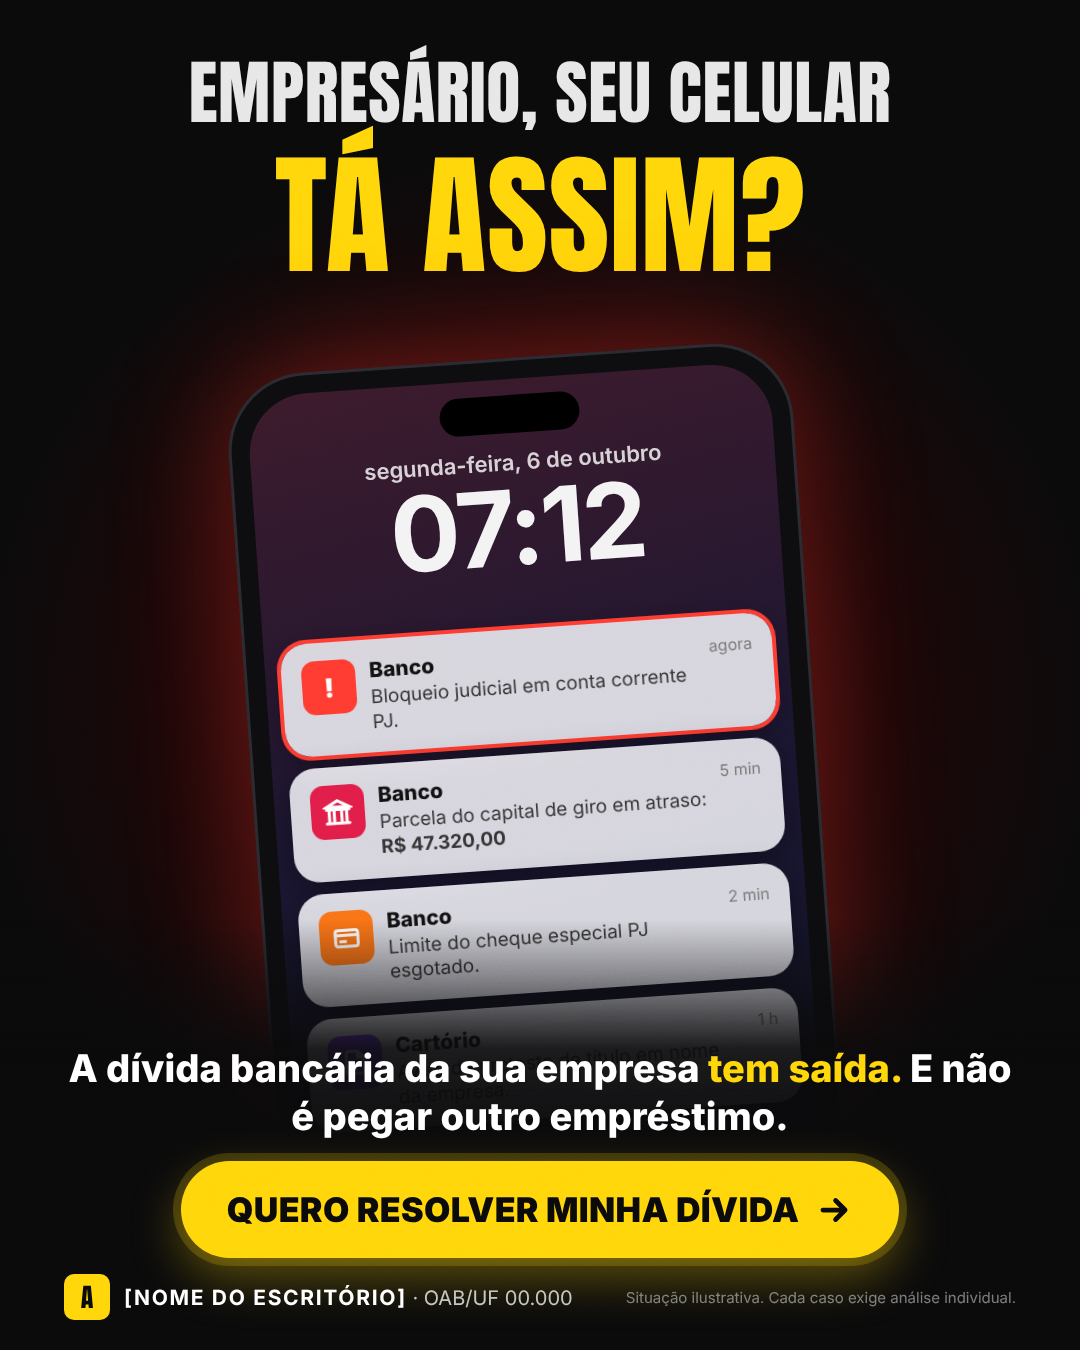
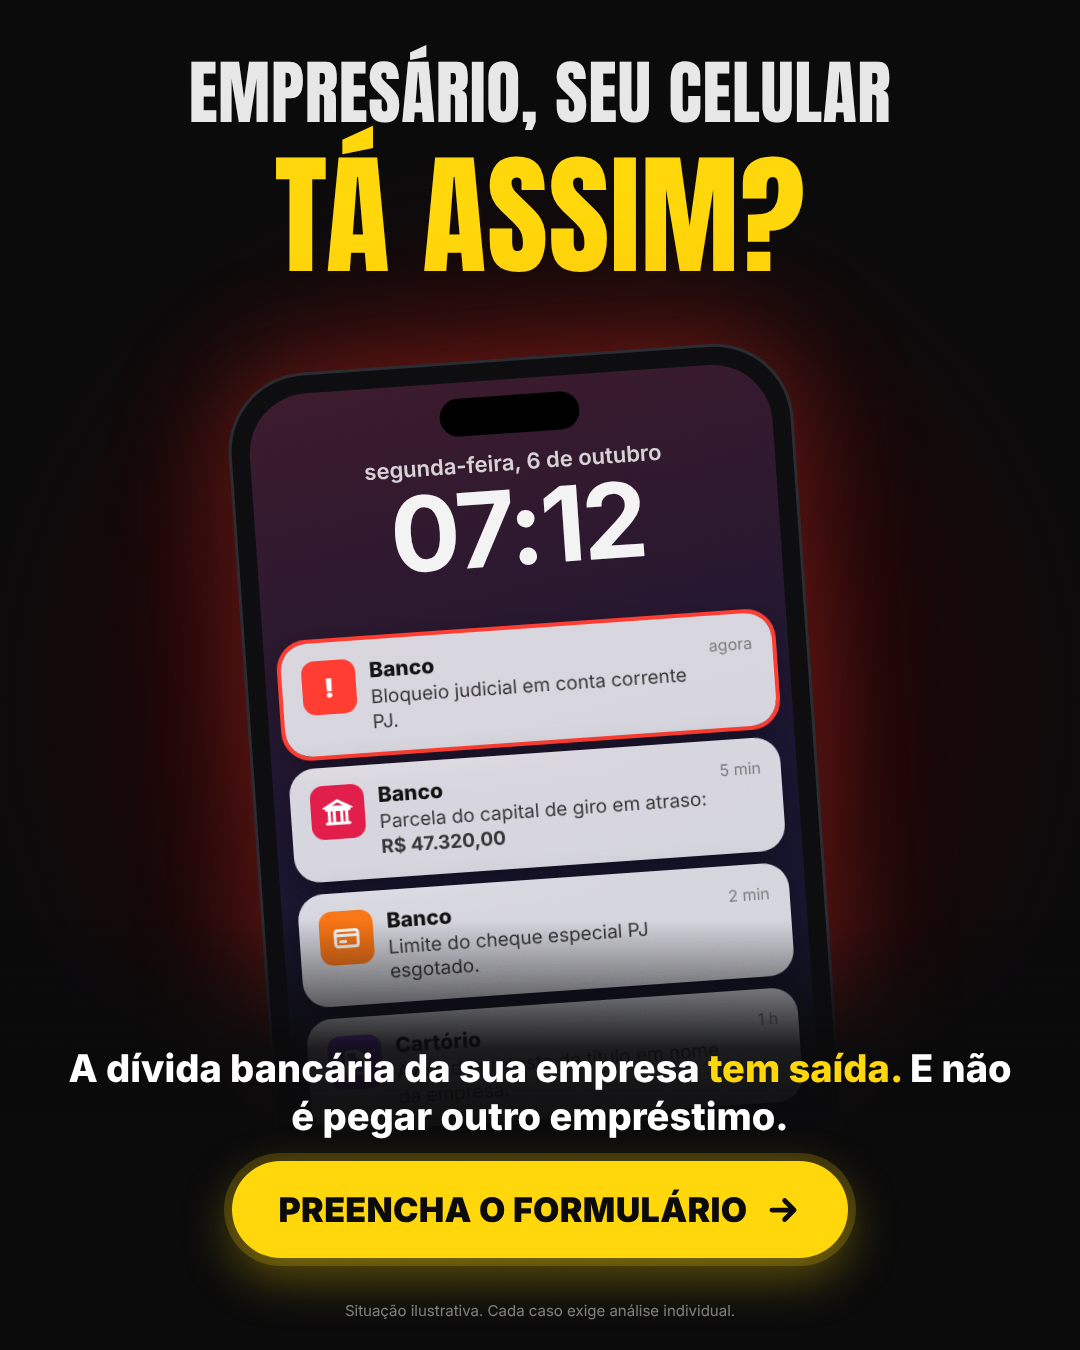
Estáticos: CTA 'Preencha o formulário' e remove nome do escritório/OAB
Claude-Session: https://claude.ai/code/session_01Q7ZFTqvQcA4cX7H4AYzgek

diff --git a/estaticos-gestao-passivo/04-conversa-gerente.html b/estaticos-gestao-passivo/04-conversa-gerente.html
@@ -25,11 +25,8 @@
   .sub { left: 60px; right: 60px; top: 1036px; font-size: 36px; line-height: 1.25; font-weight: 800; }
   .ctaw { left: 60px; top: 1160px; }
   .cta { background: var(--black); color: var(--yellow); box-shadow: 0 16px 40px rgba(0,0,0,.3); font-size: 30px; padding: 24px 40px; }
-  .foot { right: 60px; top: 1170px; text-align: right; }
-  .foot .brand { color: rgba(0,0,0,.7); justify-content: flex-end; font-size: 18px; }
-  .foot .brand b { color: #000; }
-  .foot .brand .seal { background: var(--black); color: var(--yellow); }
-  .foot .disc { color: rgba(0,0,0,.5); margin-top: 8px; font-size: 14px; }
+  .foot { left: 60px; bottom: 40px; }
+  .foot .disc { color: rgba(0,0,0,.5); font-size: 15px; }
 </style></head>
 <body><div class="ad">
   <h1 class="abs hl">Seu gerente mandou isso? <span class="w">Não assine</span> ainda.</h1>
@@ -45,6 +42,6 @@
   </div>
 
   <p class="abs sub">Renegociar sem orientação pode colocar seu patrimônio em risco. Fale antes com um especialista.</p>
-  <div class="abs ctaw"><span class="cta">Quero orientação <svg viewBox="0 0 24 24" fill="none" stroke="currentColor" stroke-width="3" stroke-linecap="round" stroke-linejoin="round"><path d="M5 12h14M13 6l6 6-6 6"/></svg></span></div>
-  <div class="abs foot"><div class="brand"><div class="seal">A</div><div><b>[NOME DO ESCRITÓRIO]</b><br>OAB/UF 00.000</div></div><div class="disc">Situação ilustrativa. Cada caso exige análise individual.</div></div>
+  <div class="abs ctaw"><span class="cta">Preencha o formulário <svg viewBox="0 0 24 24" fill="none" stroke="currentColor" stroke-width="3" stroke-linecap="round" stroke-linejoin="round"><path d="M5 12h14M13 6l6 6-6 6"/></svg></span></div>
+  <div class="abs foot"><div class="disc">Situação ilustrativa. Cada caso exige análise individual.</div></div>
 </div></body></html>

diff --git a/estaticos-gestao-passivo/01-celular-notificacoes.html b/estaticos-gestao-passivo/01-celular-notificacoes.html
@@ -29,7 +29,7 @@
   .bottom { left: 0; right: 0; bottom: 0; height: 430px; background: linear-gradient(180deg, rgba(10,10,11,0) 0%, rgba(10,10,11,.92) 30%, var(--black) 55%); }
   .msg { left: 64px; right: 64px; bottom: 210px; text-align: center; font-size: 38px; font-weight: 800; line-height: 1.25; }
   .ctaw { left: 0; right: 0; bottom: 92px; text-align: center; }
-  .foot { left: 64px; right: 64px; bottom: 30px; display: flex; justify-content: space-between; align-items: center; }
+  .foot { left: 64px; right: 64px; bottom: 30px; display: flex; justify-content: center; align-items: center; }
 </style></head>
 <body><div class="ad">
   <div class="abs head"><h1 class="hl"><span class="s">Empresário, seu celular</span><span class="y">tá assim?</span></h1></div>
@@ -47,6 +47,6 @@
 
   <div class="abs bottom"></div>
   <p class="abs msg">A dívida bancária da sua empresa <span class="y">tem saída.</span> E não é pegar outro empréstimo.</p>
-  <div class="abs ctaw"><span class="cta">Quero resolver minha dívida <svg viewBox="0 0 24 24" fill="none" stroke="currentColor" stroke-width="3" stroke-linecap="round" stroke-linejoin="round"><path d="M5 12h14M13 6l6 6-6 6"/></svg></span></div>
-  <div class="abs foot"><div class="brand"><div class="seal">A</div><div><b>[NOME DO ESCRITÓRIO]</b> · OAB/UF 00.000</div></div><span class="disc">Situação ilustrativa. Cada caso exige análise individual.</span></div>
+  <div class="abs ctaw"><span class="cta">Preencha o formulário <svg viewBox="0 0 24 24" fill="none" stroke="currentColor" stroke-width="3" stroke-linecap="round" stroke-linejoin="round"><path d="M5 12h14M13 6l6 6-6 6"/></svg></span></div>
+  <div class="abs foot"><span class="disc">Situação ilustrativa. Cada caso exige análise individual.</span></div>
 </div></body></html>

diff --git a/estaticos-gestao-passivo/02-madrugada-fazendo-conta.html b/estaticos-gestao-passivo/02-madrugada-fazendo-conta.html
@@ -43,6 +43,6 @@
   </div>
 
   <p class="abs sub">Juros sobre juros, renegociação que só aumenta a dívida… <b>Isso não se resolve com outro empréstimo. Se resolve com estratégia jurídica.</b></p>
-  <div class="abs ctaw"><span class="cta">Quero sair dessa dívida <svg viewBox="0 0 24 24" fill="none" stroke="currentColor" stroke-width="3" stroke-linecap="round" stroke-linejoin="round"><path d="M5 12h14M13 6l6 6-6 6"/></svg></span></div>
-  <div class="abs foot"><div class="brand"><div class="seal">A</div><div><b>[NOME DO ESCRITÓRIO]</b> · OAB/UF 00.000</div></div><span class="disc">Situação ilustrativa. Cada caso exige análise individual.</span></div>
+  <div class="abs ctaw"><span class="cta">Preencha o formulário <svg viewBox="0 0 24 24" fill="none" stroke="currentColor" stroke-width="3" stroke-linecap="round" stroke-linejoin="round"><path d="M5 12h14M13 6l6 6-6 6"/></svg></span></div>
+  <div class="abs foot"><span class="disc">Situação ilustrativa. Cada caso exige análise individual.</span></div>
 </div></body></html>

diff --git a/estaticos-gestao-passivo/03-carimbo-em-atraso.html b/estaticos-gestao-passivo/03-carimbo-em-atraso.html
@@ -43,6 +43,6 @@
   </div>
 
   <p class="abs sub">Antes que vire <b>bloqueio de conta, protesto ou execução</b>, fale com um especialista.</p>
-  <div class="abs ctaw"><span class="cta">Falar com especialista agora <svg viewBox="0 0 24 24" fill="none" stroke="currentColor" stroke-width="3" stroke-linecap="round" stroke-linejoin="round"><path d="M5 12h14M13 6l6 6-6 6"/></svg></span></div>
-  <div class="abs foot"><div class="brand"><div class="seal">A</div><div><b>[NOME DO ESCRITÓRIO]</b> · OAB/UF 00.000</div></div><div class="disc">Valores ilustrativos. Cada caso exige análise individual.</div></div>
+  <div class="abs ctaw"><span class="cta">Preencha o formulário <svg viewBox="0 0 24 24" fill="none" stroke="currentColor" stroke-width="3" stroke-linecap="round" stroke-linejoin="round"><path d="M5 12h14M13 6l6 6-6 6"/></svg></span></div>
+  <div class="abs foot"><div class="disc">Valores ilustrativos. Cada caso exige análise individual.</div></div>
 </div></body></html>

diff --git a/estaticos-gestao-passivo/README.md b/estaticos-gestao-passivo/README.md
@@ -4,10 +4,10 @@
 
 | # | Arquivo | Gancho | CTA |
 |---|---------|--------|-----|
-| 01 | `png/01-celular-notificacoes.png` | "Empresário, seu celular tá assim?": tela bloqueada com notificações de bloqueio judicial, parcela em atraso e protesto | Quero resolver minha dívida |
-| 02 | `png/02-madrugada-fazendo-conta.png` | Relógio "03:47" e post-it com as contas da semana: "Mais uma noite fazendo conta pra pagar o banco?" | Quero sair dessa dívida |
-| 03 | `png/03-carimbo-em-atraso.png` | Papéis com carimbos EM ATRASO / PROTESTO / EXECUÇÃO: "A dívida da sua empresa virou uma bola de neve?" (fundo claro, contrasta no feed) | Falar com especialista agora |
-| 04 | `png/04-conversa-gerente.png` | Conversa com o gerente pedindo o imóvel como garantia: "Seu gerente mandou isso? Não assine ainda." (fundo amarelo) | Quero orientação |
+| 01 | `png/01-celular-notificacoes.png` | "Empresário, seu celular tá assim?": tela bloqueada com notificações de bloqueio judicial, parcela em atraso e protesto | Preencha o formulário |
+| 02 | `png/02-madrugada-fazendo-conta.png` | Relógio "03:47" e post-it com as contas da semana: "Mais uma noite fazendo conta pra pagar o banco?" | Preencha o formulário |
+| 03 | `png/03-carimbo-em-atraso.png` | Papéis com carimbos EM ATRASO / PROTESTO / EXECUÇÃO: "A dívida da sua empresa virou uma bola de neve?" (fundo claro, contrasta no feed) | Preencha o formulário |
+| 04 | `png/04-conversa-gerente.png` | Conversa com o gerente pedindo o imóvel como garantia: "Seu gerente mandou isso? Não assine ainda." (fundo amarelo) | Preencha o formulário |
 
 ## Copy sugerida
 
@@ -25,7 +25,7 @@ Texto: Muitas renegociações exigem imóvel ou aval dos sócios como garantia. 
 
 ## Antes de publicar
 
-- Trocar `[NOME DO ESCRITÓRIO]`, `OAB/UF 00.000` e a letra do selo pelos dados reais do cliente.
+- As artes não levam nome do escritório nem número da OAB (prontas para qualquer cliente). O CTA de todas é "Preencha o formulário", pensado para campanhas de formulário instantâneo.
 - Provimento 205/2021 da OAB: as artes não prometem resultado, não citam percentuais de redução e trazem "Situação ilustrativa. Cada caso exige análise individual." Mantenha esse padrão na copy.
 
 ## Editar e renderizar
